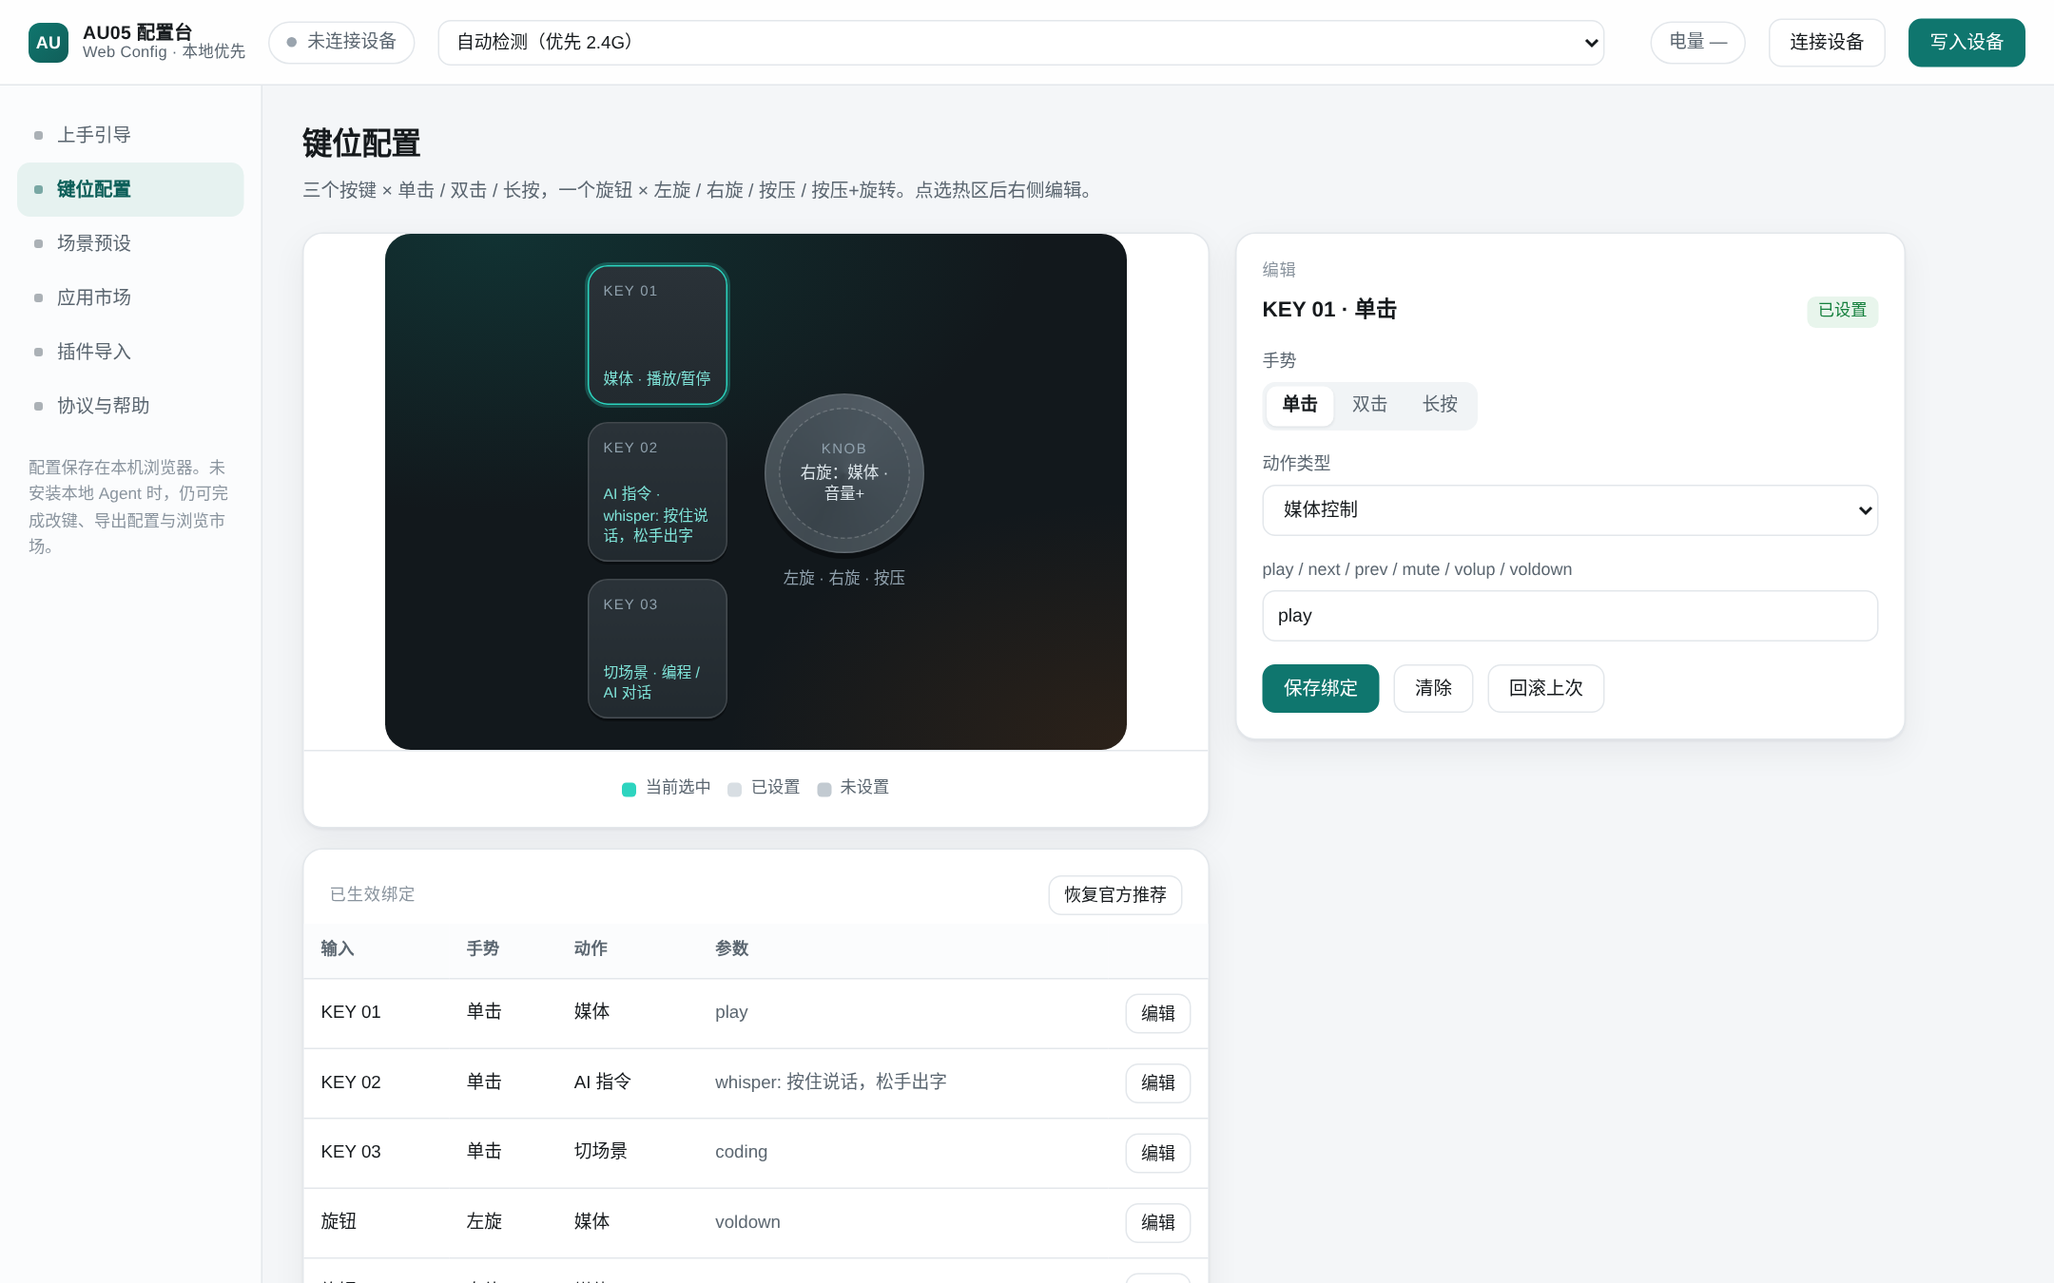
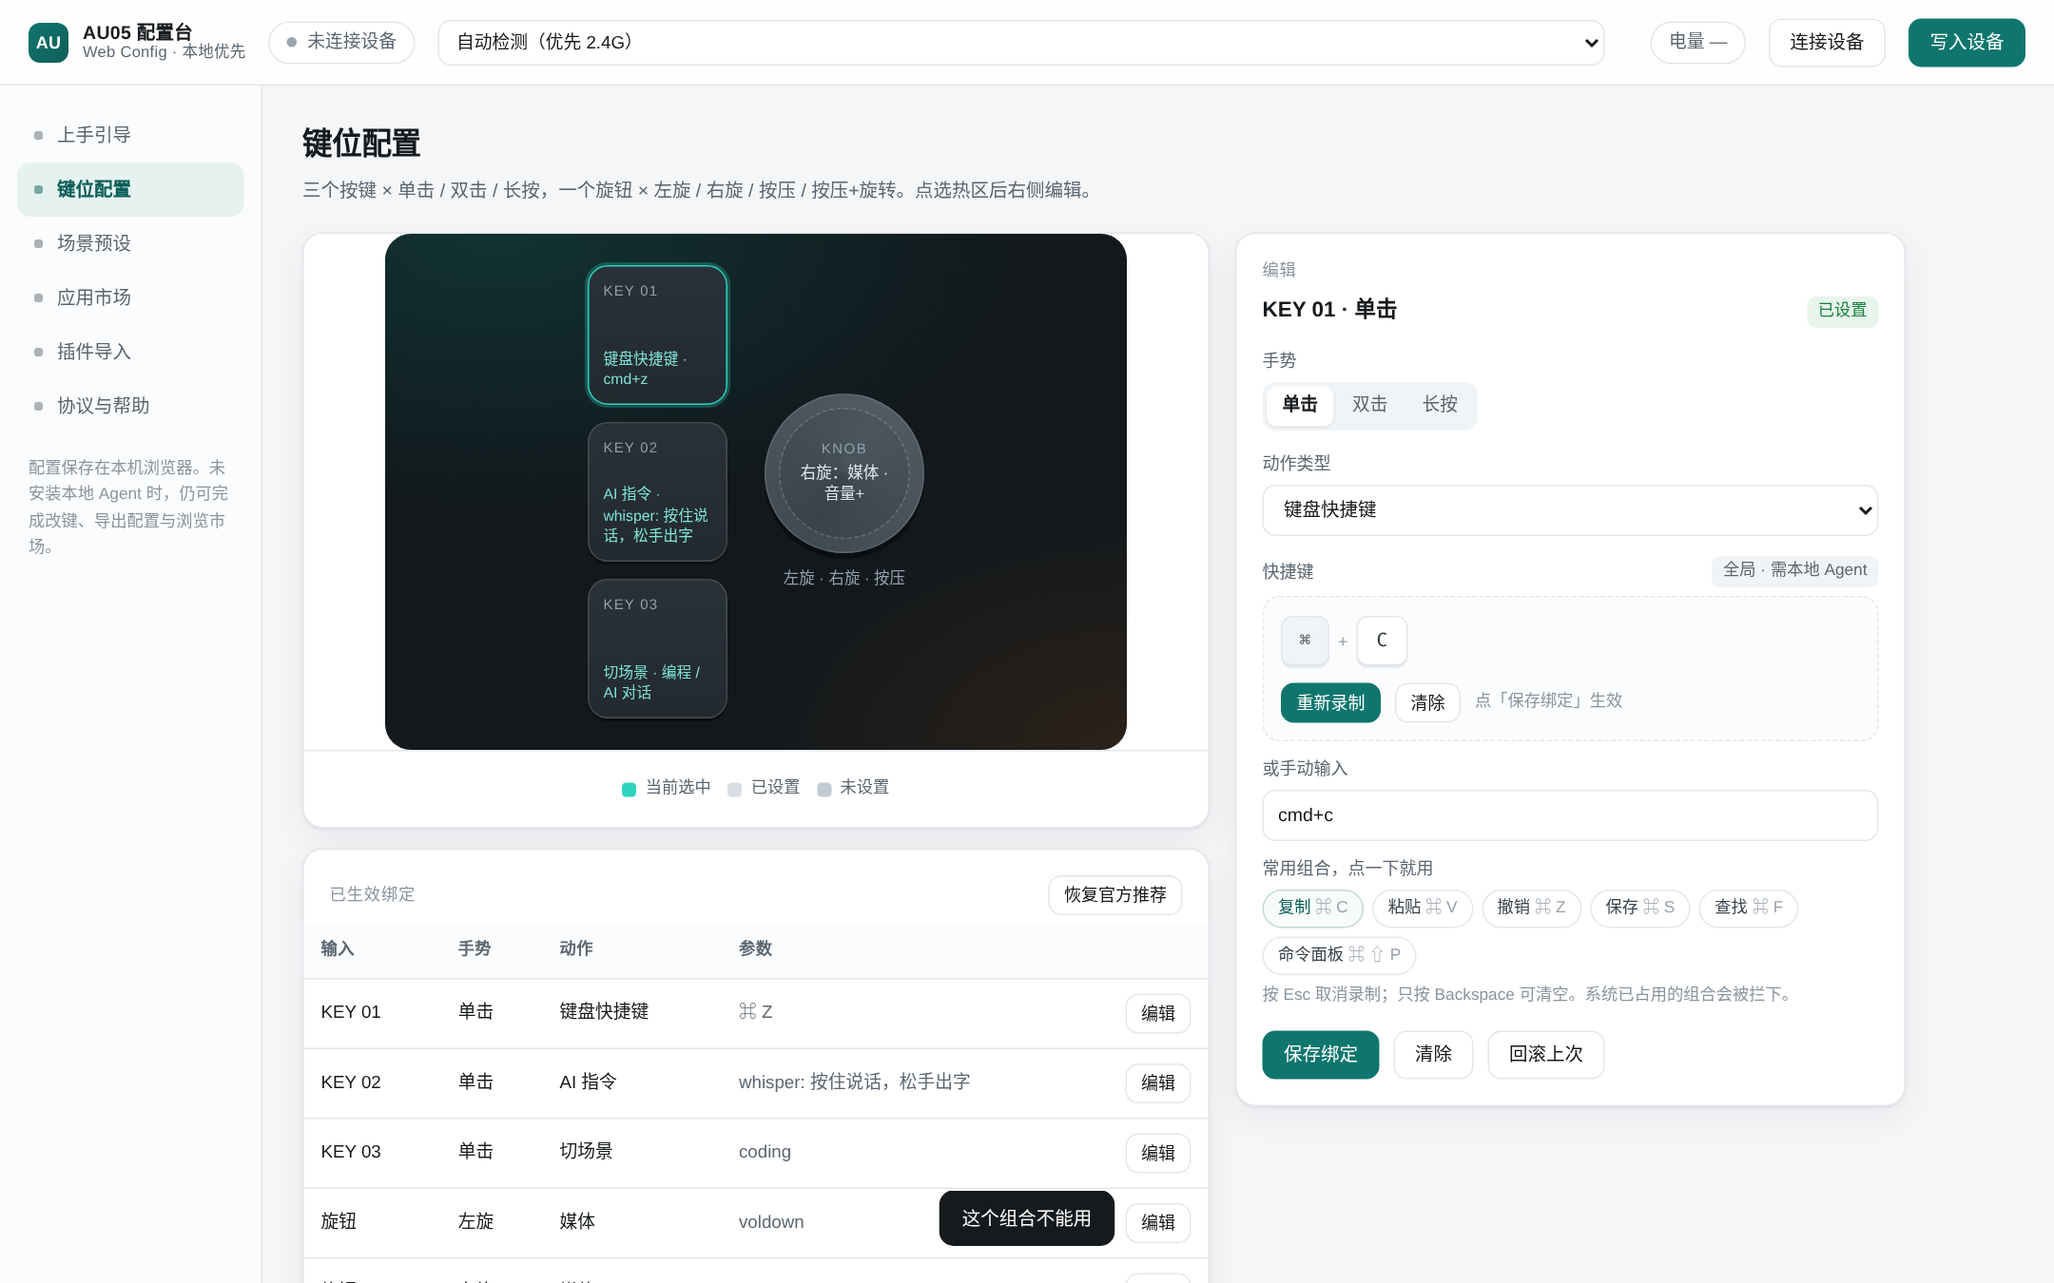
feat(hotkey): 重做快捷键录入体验——实时键帽预览、Esc/Backspace、系统占用即时报错、常用组合一键套用

diff --git a/index.html b/index.html
@@ -124,6 +124,23 @@ dialog::backdrop{background:rgba(16,24,40,.4)}
 .kbd{display:inline-flex;align-items:center;height:22px;padding:0 6px;border:1px solid var(--line);border-bottom-width:2px;border-radius:6px;font-size:11.5px;background:#fff;color:#3B444C;font-family:ui-monospace,Menlo,monospace}
 .notice{display:flex;gap:12px;align-items:flex-start;padding:14px 16px;border-radius:12px;background:#FDF7EC;border:1px solid #F6E2BE;color:#7A4E12;font-size:12.5px}
 .help{color:#0F766E;background:#E9F5F2;border-color:#C9E6E1;color:#0B5E58}
+/* 快捷键录制 */
+.hk-box{border:1px dashed var(--line);border-radius:12px;padding:12px;background:#FBFCFD;display:flex;flex-direction:column;gap:10px;transition:.15s}
+.hk-box.rec{border-color:var(--accent);background:#F2FBF9;box-shadow:0 0 0 3px rgba(15,118,110,.08)}
+.hk-preview{display:flex;gap:6px;flex-wrap:wrap;align-items:center;min-height:38px}
+.hk-keycap{min-width:36px;height:36px;padding:0 9px;border:1px solid var(--line);border-bottom-width:2px;border-radius:8px;background:#fff;display:inline-flex;align-items:center;justify-content:center;font-size:13px;font-family:ui-monospace,SFMono-Regular,Menlo,monospace;color:#2C353B;box-shadow:0 1px 0 rgba(16,24,40,.05)}
+.hk-keycap.mod{background:#F1F4F6;color:#4A555D;min-width:34px}
+.hk-keycap.ghost{background:#fff;border-style:dashed;color:#98A2AC}
+.hk-keycap.new{animation:hkIn .12s ease-out}
+@keyframes hkIn{from{transform:translateY(2px);opacity:.4}to{transform:none;opacity:1}}
+.hk-empty{color:#98A2AC;font-size:12.5px}
+.hk-plus{color:#98A2AC;font-size:12px}
+.hk-err{color:var(--danger);font-size:12px;margin-top:8px;display:flex;gap:6px;align-items:flex-start}
+.chips{display:flex;flex-wrap:wrap;gap:6px}
+.chip{height:27px;padding:0 10px;border:1px solid var(--line);border-radius:999px;background:#fff;font-size:11.5px;cursor:pointer;color:#3B444C}
+.chip:hover{border-color:#BFD9D5;background:#F7FCFB;color:#0B5E58}
+.rec-dot{width:7px;height:7px;border-radius:50%;background:#C2410C;animation:pulse 1s infinite;display:inline-block;margin-right:6px}
+@keyframes pulse{50%{opacity:.3}}
 @media (max-width:960px){
   .shell{grid-template-columns:1fr}
   .rail{display:flex;overflow:auto;border-right:0;border-bottom:1px solid var(--line);padding:8px}
@@ -226,9 +243,28 @@ dialog::backdrop{background:rgba(16,24,40,.4)}
           </div>
           <div class="field" id="paramField"><label class="lbl" id="paramLabel">参数</label><input type="text" id="paramInput" placeholder=""/></div>
           <div class="field" id="hotkeyField" style="display:none">
-            <label class="lbl">快捷键</label>
-            <div class="row"><input type="text" id="hotkeyInput" placeholder="点“录制”后按键" readonly/><button class="btn sm" id="btnRecord">录制</button></div>
-            <div class="hint">录制时聚焦本页，按下组合键即可；系统保留组合会被拒绝。</div>
+            <div class="row" style="justify-content:space-between;margin-bottom:6px">
+              <label class="lbl" style="margin:0">快捷键</label>
+              <span class="tag" id="hotkeyScope">全局 · 需本地 Agent</span>
+            </div>
+            <div class="hk-box" id="hkBox">
+              <div class="hk-preview" id="hkPreview"></div>
+              <div class="row">
+                <button class="btn sm primary" id="btnRecord">开始录制</button>
+                <button class="btn sm" id="btnClearHotkey">清除</button>
+                <span class="hint" style="margin:0" id="hkStatus"></span>
+              </div>
+            </div>
+            <div class="hk-err" id="hkErr" style="display:none"></div>
+            <div class="field" style="margin-top:10px">
+              <label class="lbl">或手动输入</label>
+              <input type="text" id="hotkeyInput" placeholder="例如 cmd+shift+p 或 ⌘⇧P"/>
+            </div>
+            <div class="field" style="margin-top:10px">
+              <label class="lbl">常用组合，点一下就用</label>
+              <div class="chips" id="hkChips"></div>
+            </div>
+            <div class="hint">按 Esc 取消录制；只按 Backspace 可清空。系统已占用的组合会被拦下。</div>
           </div>
           <div class="field" id="pluginField" style="display:none"><label class="lbl">插件动作</label><select id="pluginAction"></select></div>
           <div class="row mt16"><button class="btn primary" id="btnSave">保存绑定</button><button class="btn" id="btnClear">清除</button><button class="btn ghost" id="btnRollback">回滚上次</button></div>
@@ -353,7 +389,10 @@ const ACTIONS = [
   {id:"ai",name:"AI 指令",field:"提示词 / 目标工具",ph:"claude-code: 解释选中代码"},
   {id:"plugin",name:"插件动作",field:null,ph:""}
 ];
-const RESERVED = ["cmd+tab","ctrl+alt+del","alt+f4","cmd+q","win+l","cmd+space","ctrl+shift+esc"];
+const RESERVED = [
+  "cmd+tab","cmd+q","cmd+space","cmd+shift+3","cmd+shift+4","cmd+shift+5","cmd+backtick",
+  "ctrl+alt+del","alt+f4","alt+tab","win+l","ctrl+shift+esc","ctrl+space"
+];
 const PERM_LABEL = {input:"监听按键输入",clipboard:"读写剪贴板",network:"访问网络",filesystem:"读写本地文件"};
 const PERM_ALLOWED = ["input","clipboard","network","filesystem"];
 
@@ -534,13 +573,105 @@ function renderInspector(){
   renderConflict(cur);
 }
 
+/* ---------- 快捷键显示与校验 ---------- */
+const MOD_ORDER = ["cmd","ctrl","alt","shift","win"];
+const MOD_LABEL = {cmd:"⌘",ctrl:"⌃",alt:"⌥",shift:"⇧",win:"Win"};
+const KEY_LABEL = {space:"空格",enter:"回车",tab:"Tab",esc:"Esc",backspace:"⌫",delete:"⌦",
+  up:"↑",down:"↓",left:"←",right:"→",pageup:"PgUp",pagedown:"PgDn",home:"Home",end:"End",insert:"Ins",plus:"+"};
+const MOD_ALIAS = {cmd:"cmd",command:"cmd","⌘":"cmd",ctrl:"ctrl",control:"ctrl","⌃":"ctrl",
+  alt:"alt",option:"alt","⌥":"alt",shift:"shift","⇧":"shift",win:"win",windows:"win",super:"win"};
+const KEY_ALIAS = {esc:"esc",escape:"esc"," ":"space",spacebar:"space",space:"space",
+  arrowup:"up",arrowdown:"down",arrowleft:"left",arrowright:"right",up:"up",down:"down",left:"left",right:"right",
+  del:"delete",pgup:"pageup",pgdn:"pagedown",ins:"insert"};
+const HK_SUGGEST = [
+  ["cmd+c","复制"],["cmd+v","粘贴"],["cmd+z","撤销"],["cmd+s","保存"],["cmd+f","查找"],["cmd+shift+p","命令面板"]
+];
+
+function keyToken(e){
+  const raw = e.key;
+  if(raw === " ") return "space";
+  if(/^F\d{1,2}$/i.test(raw)) return raw.toLowerCase();
+  if(raw.length === 1) return raw.toLowerCase();
+  return raw.toLowerCase();
+}
+function normToken(t){
+  const low = String(t||"").toLowerCase();
+  if(MOD_ALIAS[low]) return MOD_ALIAS[low];
+  if(KEY_ALIAS[low]) return KEY_ALIAS[low];
+  return low.replace(/^arrow/,"");
+}
+function normHotkey(raw){
+  const parts = String(raw||"").toLowerCase()
+    .replace(/⌘/g,"cmd+").replace(/⌃/g,"ctrl+").replace(/⌥/g,"alt+").replace(/⇧/g,"shift+")
+    .split(/[+\s]+/).filter(Boolean).map(normToken);
+  if(!parts.length) return "";
+  const mods = [], keys = [];
+  parts.forEach(function(t){
+    if(MOD_ORDER.indexOf(t) >= 0){ if(mods.indexOf(t) < 0) mods.push(t); }
+    else keys.push(t);
+  });
+  mods.sort(function(a,b){ return MOD_ORDER.indexOf(a) - MOD_ORDER.indexOf(b); });
+  return mods.concat(keys.slice(-1)).join("+");
+}
+function hotkeyTokens(value){
+  const v = normHotkey(value);
+  return v ? v.split("+") : [];
+}
+function hotkeyText(value){
+  return hotkeyTokens(value).map(function(t){ return MOD_LABEL[t] || KEY_LABEL[t] || t.toUpperCase(); }).join(" ");
+}
+function hotkeyProblem(value){
+  const v = normHotkey(value);
+  if(!v) return null;
+  if(RESERVED.indexOf(v) >= 0) return "“" + hotkeyText(v) + "”被系统占用（截图/切换应用等），换一个组合。";
+  const toks = v.split("+");
+  if(toks.length === 2 && toks[0] !== "shift"){ /* 允许单修饰键组合 */ }
+  if(toks.length === 1) return "只绑一个键会抢走正常输入，建议加一个 ⌘ 或 ⌃。";
+  const key = toks[toks.length-1];
+  if(MOD_ORDER.indexOf(key) >= 0) return "缺少主键，请再按一个字母或功能键。";
+  return null;
+}
+function paintPreview(items, hint){
+  const box = $("#hkPreview");
+  if(!items.length){
+    box.innerHTML = '<span class="hk-empty">' + esc(hint || "还没设置快捷键") + '</span>';
+    return;
+  }
+  box.innerHTML = items.map(function(it, i){
+    const cls = it.mod ? " mod" : (it.label === "?" ? " ghost" : "");
+    const cap = '<span class="hk-keycap' + cls + '">' + esc(it.label) + '</span>';
+    if(i === items.length-1) return cap;
+    return cap + '<span class="hk-plus">+</span>';
+  }).join("");
+}
+function renderHotkeyEditor(value){
+  const v = normHotkey(value);
+  $("#hotkeyInput").value = v;
+  const toks = v ? v.split("+") : [];
+  paintPreview(toks.map(function(t){ return {label: MOD_LABEL[t] || KEY_LABEL[t] || t.toUpperCase(), mod: !!MOD_LABEL[t]}; }));
+  const prob = hotkeyProblem(v);
+  $("#hkErr").style.display = prob ? "flex" : "none";
+  $("#hkErr").textContent = prob ? prob : "";
+}
+function renderHkChips(){
+  $("#hkChips").innerHTML = HK_SUGGEST.map(function(c){
+    return '<button class="chip" data-hk="' + c[0] + '">' + esc(c[1]) + ' <b style="font-weight:500;color:#98A2AC">' + esc(hotkeyText(c[0])) + '</b></button>';
+  }).join("");
+  $$("#hkChips button").forEach(function(b){
+    b.addEventListener("click", function(){
+      renderHotkeyEditor(b.dataset.hk);
+      $("#hkStatus").textContent = "点「保存绑定」生效";
+    });
+  });
+}
+
 function syncActionFields(type, value){
   const isHot = type==="hotkey";
   const isPlugin = type==="plugin";
   $("#hotkeyField").style.display = isHot?"block":"none";
   $("#pluginField").style.display = isPlugin?"block":"none";
   $("#paramField").style.display = (isHot||isPlugin)?"none":"block";
-  $("#hotkeyInput").value = isHot?(value||""):"";
+  if(isHot) renderHotkeyEditor(value||"");
   if(isPlugin){
     const sel = $("#pluginAction");
     const opts = [];
@@ -596,7 +727,7 @@ function renderBindings(){
   else{
     tb.innerHTML = rows.map(function(r){
       return '<tr><td>'+INPUTS[r.inp]+'</td><td>'+r.gLabel+'</td><td>'+esc(actionSummary(r.b).split(" · ")[0])+'</td>'+
-        '<td style="color:#5B6670">'+esc(r.b.value||"—")+'</td>'+
+        '<td style="color:#5B6670">'+esc(r.b.type==="hotkey"?(hotkeyText(r.b.value)||"—"):(r.b.value||"—"))+'</td>'+
         '<td><button class="btn sm" data-edit="'+r.k+'">编辑</button></td></tr>';
     }).join("");
     $$("#bindTable button[data-edit]").forEach(function(b){
@@ -778,20 +909,24 @@ $("#actionType").addEventListener("change",function(){
   syncActionFields(this.value,"");
 });
 $("#btnSave").addEventListener("click",function(){
+  resetRecIfNeeded();
   const type = $("#actionType").value;
   let value = "";
-  if(type==="hotkey") value = $("#hotkeyInput").value.trim();
+  if(type==="hotkey") value = normHotkey($("#hotkeyInput").value);
   else if(type==="plugin") value = $("#pluginAction").value;
   else value = $("#paramInput").value.trim();
-  if(type!=="media" && !value){ toast("这个动作需要填写参数"); return; }
+  if(type!=="media" && !value){
+    if(type==="hotkey"){ $("#hkErr").style.display="flex"; $("#hkErr").textContent="先录制或手动输入一个组合键。"; }
+    toast("这个动作需要填写参数"); return;
+  }
   if(type==="hotkey"){
-    const k = value.toLowerCase().replace(/ /g,"");
-    if(!k){ toast("请先录制快捷键"); return; }
-    if(RESERVED.indexOf(k)>=0){ toast("“"+value+"”是系统保留组合"); return; }
+    const prob = hotkeyProblem(value);
+    if(prob){ $("#hkErr").style.display="flex"; $("#hkErr").textContent=prob; toast("这个组合不能用"); return; }
   }
   S.history.push(JSON.stringify(S.bindings));
   if(S.history.length>20) S.history.shift();
   S.bindings[currentKey()] = {type:type,value:value};
+  if(type==="hotkey"){ $("#hkStatus").textContent = "已保存"; }
   save(); renderAll(); toast("已保存：" + INPUTS[S.selected.input] + " · " + gestureLabel(S.selected.input,S.selected.gesture));
 });
 $("#btnClear").addEventListener("click",function(){
@@ -805,29 +940,77 @@ $("#btnRollback").addEventListener("click",function(){
   S.bindings = JSON.parse(last); save(); renderAll(); toast("已回滚到上一版");
 });
 
-/* 录制快捷键 */
-let recording = false;
-$("#btnRecord").addEventListener("click",function(){
-  recording = !recording;
-  $("#btnRecord").textContent = recording?"停止":"录制";
-  $("#hotkeyInput").placeholder = recording?"请按组合键…":"点“录制”后按键";
+/* ---------- 快捷键录制 ---------- */
+let hkRecording = false, hkMods = [];
+
+function paintPending(){
+  const items = hkMods.map(function(m){ return {label:MOD_LABEL[m], mod:true}; });
+  if(items.length) items.push({label:"?"});
+  paintPreview(items, "等待按键…");
+  $("#hkStatus").textContent = hkMods.length ? "继续按一个主键，或按 Esc 取消" : "按下组合键，或按 Esc 取消";
+}
+function startHkRecord(){
+  hkRecording = true; hkMods = [];
+  $("#hkBox").classList.add("rec");
+  $("#btnRecord").innerHTML = '<span class="rec-dot"></span>录制中…';
+  $("#hkStatus").textContent = "按下组合键";
+  $("#hkErr").style.display = "none";
+  paintPending();
+}
+function stopHkRecord(reason){
+  hkRecording = false; hkMods = [];
+  $("#hkBox").classList.remove("rec");
+  $("#btnRecord").textContent = "重新录制";
+  if(reason) $("#hkStatus").textContent = reason;
+  renderHotkeyEditor($("#hotkeyInput").value);
+}
+function resetRecIfNeeded(){
+  if(!hkRecording) return;
+  hkRecording = false; hkMods = [];
+  $("#hkBox").classList.remove("rec");
+  $("#btnRecord").textContent = "开始录制";
+  $("#hkStatus").textContent = "";
+}
+$("#btnRecord").addEventListener("click", function(){
+  if(hkRecording) stopHkRecord("已取消"); else startHkRecord();
 });
-window.addEventListener("keydown",function(e){
-  if(!recording) return;
-  if(["Shift","Control","Alt","Meta"].indexOf(e.key)>=0) return;
-  e.preventDefault();
-  const parts = [];
-  if(e.metaKey) parts.push("cmd");
-  if(e.ctrlKey) parts.push("ctrl");
-  if(e.altKey) parts.push("alt");
-  if(e.shiftKey) parts.push("shift");
-  parts.push(e.key.toLowerCase());
-  $("#hotkeyInput").value = parts.join("+");
-  recording = false; $("#btnRecord").textContent = "录制";
+$("#btnClearHotkey").addEventListener("click", function(){
+  $("#hotkeyInput").value = "";
+  renderHotkeyEditor("");
+  $("#hkStatus").textContent = "已清空";
 });
+$("#hotkeyInput").addEventListener("blur", function(){
+  renderHotkeyEditor(this.value);
+  if(this.value.trim()) $("#hkStatus").textContent = "点「保存绑定」生效";
+});
+window.addEventListener("keydown", function(e){
+  if(!hkRecording) return;
+  e.preventDefault(); e.stopPropagation();
+  if(e.key === "Escape"){ stopHkRecord("已取消录制"); return; }
+  const mods = [];
+  if(e.metaKey) mods.push("cmd");
+  if(e.ctrlKey) mods.push("ctrl");
+  if(e.altKey) mods.push("alt");
+  if(e.shiftKey) mods.push("shift");
+  if(["Meta","Control","Alt","Shift"].indexOf(e.key) >= 0){
+    hkMods = mods;
+    paintPending();
+    return;
+  }
+  if(e.key === "Backspace" && !mods.length){
+    $("#hotkeyInput").value = "";
+    stopHkRecord("已清空");
+    return;
+  }
+  const combo = normHotkey(mods.concat([keyToken(e)]).join("+"));
+  $("#hotkeyInput").value = combo;
+  stopHkRecord("已记录，点「保存绑定」生效");
+  if(hotkeyProblem(combo)) $("#hkStatus").textContent = "这个组合被占用，换一个";
+}, true);
 
 /* ---------- 设备选择 ---------- */
 function selectInput(input){
+  resetRecIfNeeded();
   S.selected.input = input;
   const gs = gesturesFor(input);
   if(!gs.some(g=>g[0]===S.selected.gesture)) S.selected.gesture = gs[0][0];
@@ -1005,6 +1188,7 @@ function renderGuideTags(){
 
 load();
 renderAll();
+renderHkChips();
 renderGuideTags();
 document.getElementById("btnResetDefault").addEventListener("click",function(){
   S.history.push(JSON.stringify(S.bindings));

diff --git a/README.md b/README.md
@@ -8,7 +8,8 @@
 
 - **连接与通道**：自动检测 / 仅蓝牙 / 仅 2.4G 接收器三档；自动检测时优先接收器（延时最低）。所选单一模式失效后回到自动检测。
 - **键位配置**：3 键 × 单击 / 双击 / 长按，旋钮 × 左旋 / 右旋 / 按压 / 按压+旋转，共 12 个输入位。点设备图选中热区，右侧编辑动作。
-- **动作库**：媒体控制、键盘快捷键（带录制）、文本片段、打开网址、打开应用、切换场景、AI 指令、插件动作。
+- **动作库**：媒体控制、键盘快捷键、文本片段、打开网址、打开应用、切换场景、AI 指令、插件动作。
+- **快捷键录制**：进入录制后实时显示键帽（⌘ ⇧ ?），只用修饰键也能看到进度；Esc 取消、Backspace 清空；系统占用组合（⌘⇧4 截图、⌘Tab 切应用等）当场标红并拦住保存；附常用组合一键套用。
 - **冲突检查**：系统保留组合（`cmd+tab`、`cmd+q`、`win+l` 等）标红拒绝；同一动作重复绑定会给出提示。
 - **场景预设**：内置编程 / 剪辑 / 会议三套，可一键应用；可把当前配置存成自己的场景、导出、导入。
 - **应用市场**：8 个条目（官方动作包 + 社区驱动/客户端），安装前弹权限清单，支持卸载。条目元数据取自 GitHub 仓库，安装量为示例值。
@@ -48,6 +49,16 @@ node agent/server.js
 | 识别前台应用、按场景切映射 | 不行 | 可以 |
 
 所以这一版的分工是：**网页负责界面、预设、市场、导入导出；Agent 负责系统级能力**。没装 Agent 也能完成配置和市场浏览，只是快捷键不会真的在别的应用里触发。
+
+## 界面
+
+键位配置：点设备正视图上的键位，右侧直接编辑。快捷键用录制模式，实时显示键帽。
+
+![键位配置](docs/keys.png)
+
+应用市场：官方与社区内容分开标识，安装前弹权限清单。
+
+![应用市场](docs/market.png)
 
 ## 目录
 
